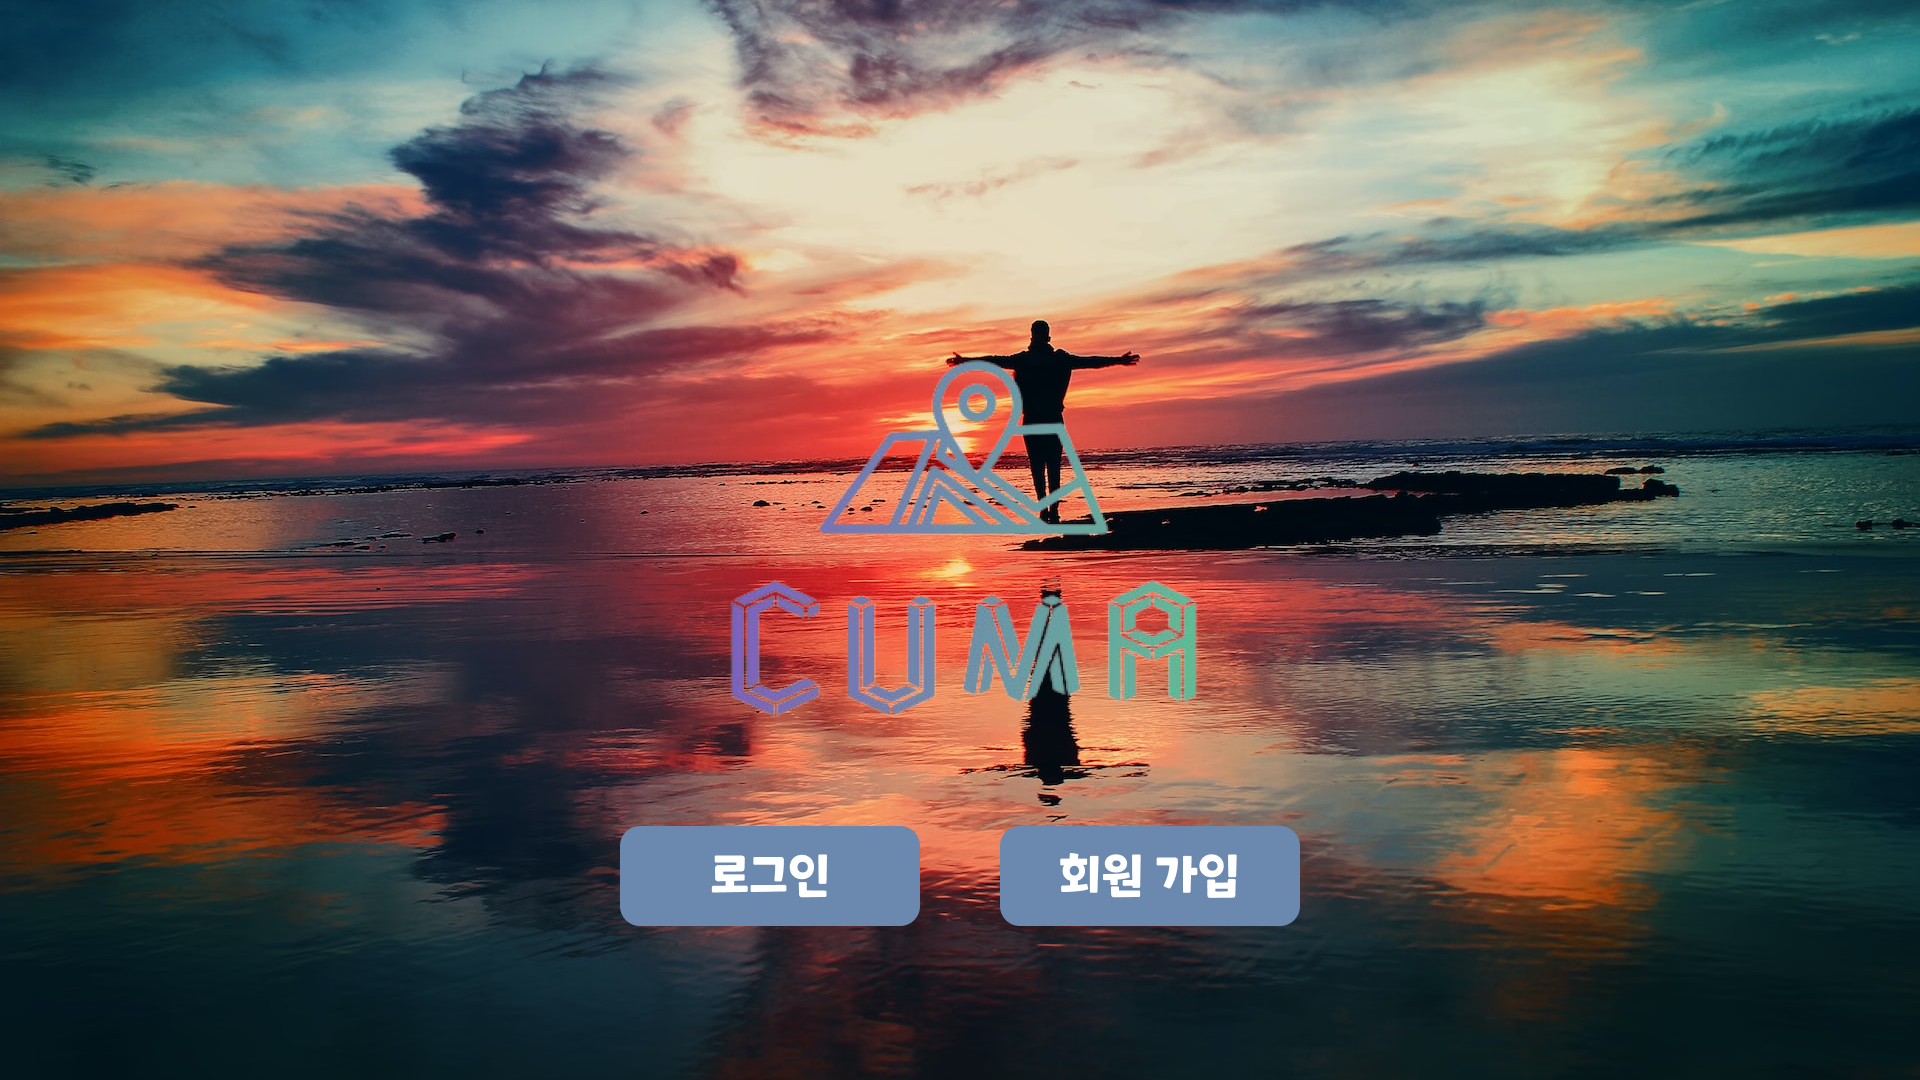
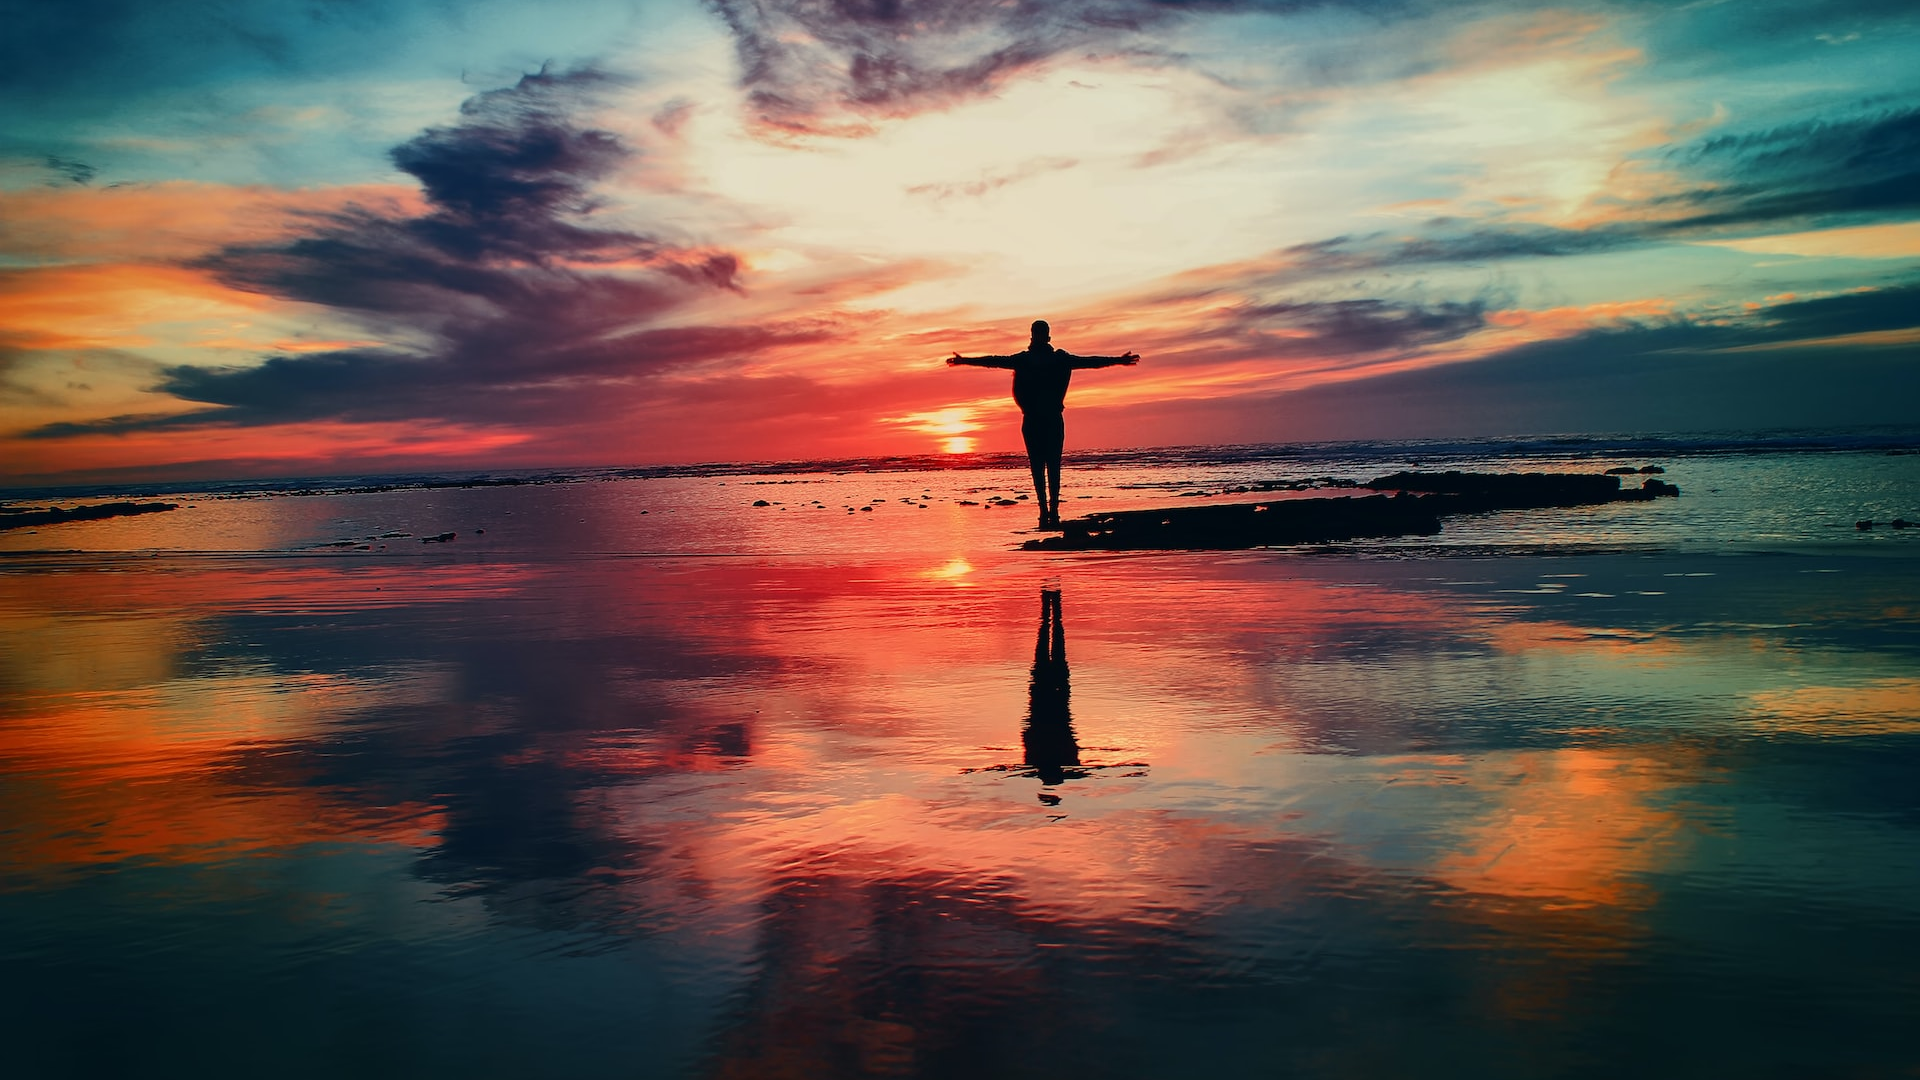
➕ :: 이미지 반복 변경 기능 추가

Changed region(s): [[0.3125, 0.7639, 0.6875, 0.8556], [0.375, 0.5194, 0.625, 0.6722], [0.4062, 0.3361, 0.5938, 0.5194]]

diff --git a/src/pages/main/index.tsx b/src/pages/main/index.tsx
@@ -1,13 +1,31 @@
-import React from "react";
+import React, { useState, useEffect } from "react";
 
 // Styles
 import * as S from "./style";
 
-function MainPage(): React.ReactElement {
-    return(
-        <S.Page>
+// Images
+import Background1 from "../../assets/images/background 1.png";
+import Background2 from "../../assets/images/background 2.png";
+import Background3 from "../../assets/images/background 3.png";
+import Background4 from "../../assets/images/background 4.png";
+import Logo from "../../assets/images/logo.png";
 
-        </S.Page>
+function MainPage(): React.ReactElement {
+    const [imageIndex, setImageIndex] = useState(0);
+    const images = [Background1, Background2, Background3, Background4];
+
+    useEffect(() => {
+        const intervalld = setInterval(() => {
+            setImageIndex((prevIndex) => (prevIndex + 1) % images.length);
+        }, 3000);
+        return () => clearInterval(intervalld);
+    }, [images.length]);
+    return(
+        <S.Layout>
+            <S.Background src={images[imageIndex]} alt="slider">
+
+            </S.Background>
+        </S.Layout>
     );
 }
 

diff --git a/src/pages/main/style.ts b/src/pages/main/style.ts
@@ -1,7 +1,17 @@
 import styled from "styled-components";
 
-export const Page = styled.div`
+export const Layout = styled.div`
     width: 100%;
     height: 100vh;
+`;
+
+export const Background = styled.img`
+    width: 100%;
+    height: 100vh;
+    filter: grayscale(100%) saturate(0%) sepia(0.6) hue-rotate(222deg) saturate(125%) brightness(102%);
+`;
+
+export const LogoWrapper = styled.div`
+    
 `;
 

diff --git a/src/App.tsx b/src/App.tsx
@@ -5,8 +5,6 @@ import { BrowserRouter as Router, Route, Routes } from "react-router-dom";
 import MainPage from "./pages/main";
 
 function App() {
-  const 
-
   return (
     <>
     <Router>
@@ -19,3 +17,4 @@ function App() {
 }
 
 export default App;
+
